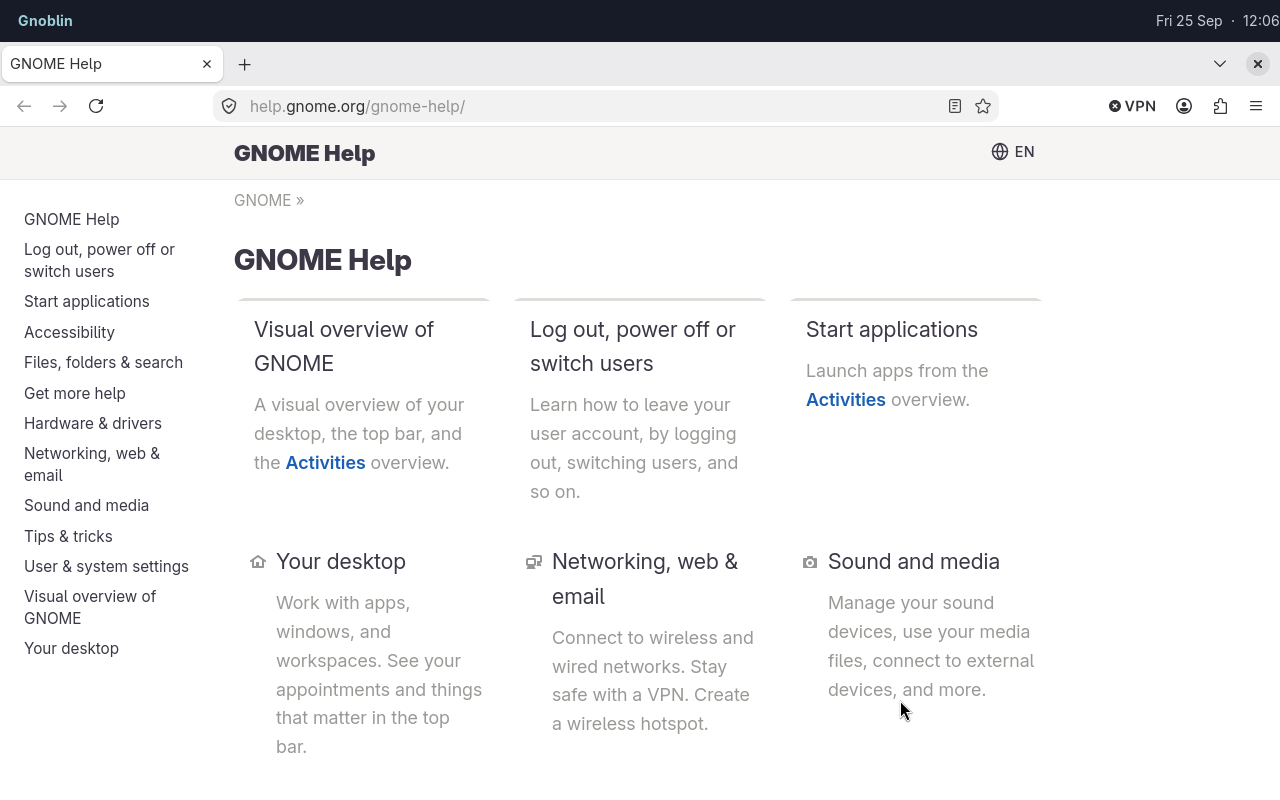
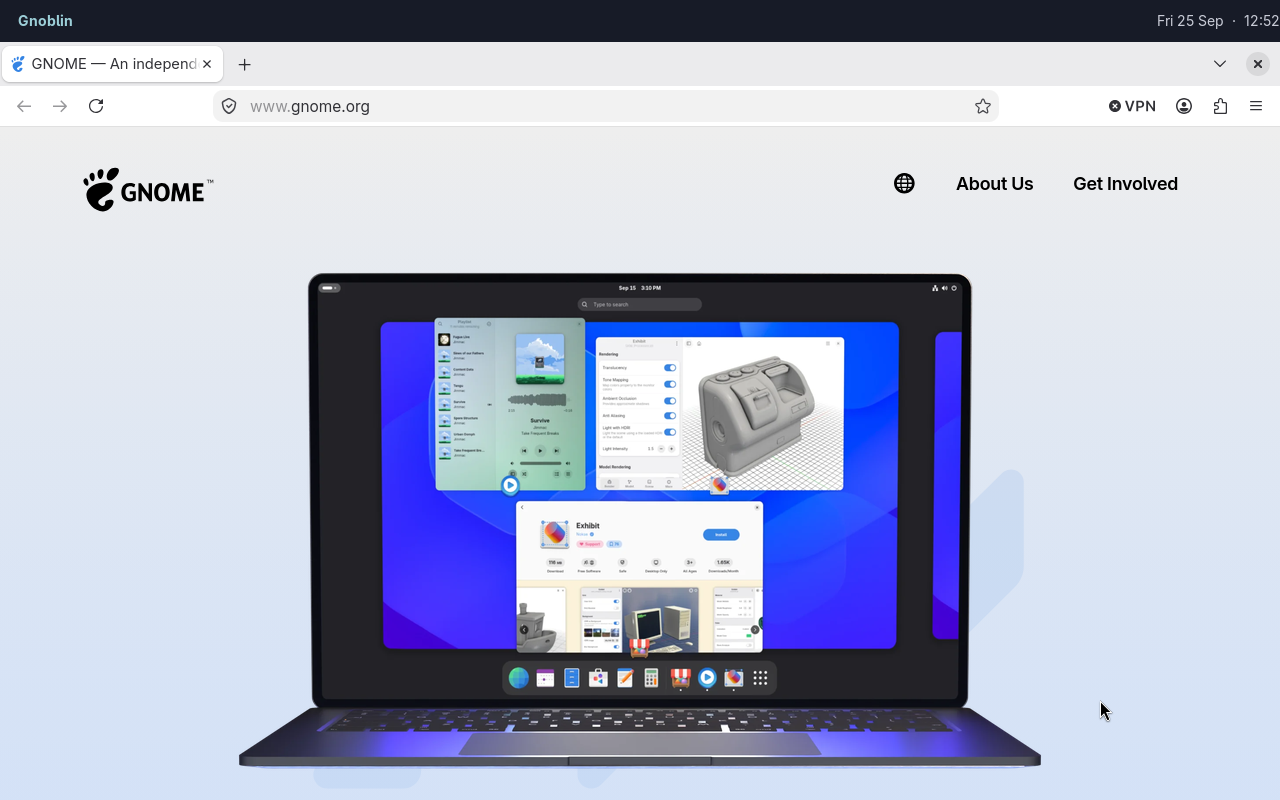
docs: refresh Firefox desktop capture

diff --git a/docs/guides/autostart.md b/docs/guides/autostart.md
@@ -13,7 +13,7 @@ gnoblin.configure {
 }
 ```
 
-![Firefox showing GNOME Help below Waybar in a fresh Gnoblin profile](../images/gnoblin-waybar-firefox.png)
+![Firefox showing GNOME's website below Waybar in a fresh Gnoblin profile](../images/gnoblin-waybar-firefox.png)
 
 _Waybar and Mako are separate layer-shell clients running beside Firefox._
 
@@ -21,9 +21,18 @@ Install the program first. Gnoblin runs the command directly, without shell
 expansion; use one string for each argument. If you need pipes or redirection,
 explicitly run a shell.
 
-A new entry starts when the config reloads. The optional `when` field defaults
-to `"on_login"`, currently the only supported trigger. A command that was
-already launched uses its updated arguments at the next login.
+| Setting   | Values                                | Default and effect                                                                             |
+| --------- | ------------------------------------- | ---------------------------------------------------------------------------------------------- |
+| `when`    | `"on_login"`                          | Starts once per login; this is the only supported trigger.                                     |
+| `restart` | `"never"`, `"on_failure"`, `"always"` | `"never"`; retry nonzero exits or signals with `on_failure`, any exit with `always`. Wait 2 s. |
+
+A new name starts when the config reloads if you are already logged in;
+otherwise it starts at the next login. See the
+[autostart reference](/config/configure/autostart) for launch failures.
+
+Changing an entry does not stop a running process. If its active restart policy
+retries after it exits, the next launch uses the current config; otherwise the
+new command starts at the next login.
 
 Do not add a program already started by your chosen shell. Bingux is one
 separate shell project that starts its own services.

diff --git a/docs/bring-your-own-shell.md b/docs/bring-your-own-shell.md
@@ -39,7 +39,7 @@ using Mako.
 Configure each tool in its own files. Gnoblin's [autostart](/guides/autostart) and
 [shortcuts](/guides/shortcuts) only control how you launch it.
 
-![Firefox showing GNOME Help in an independent Waybar session](images/gnoblin-waybar-firefox.png)
+![Firefox showing GNOME's website in an independent Waybar session](images/gnoblin-waybar-firefox.png)
 
 _Firefox running under Waybar in a fresh Gnoblin profile._
 
